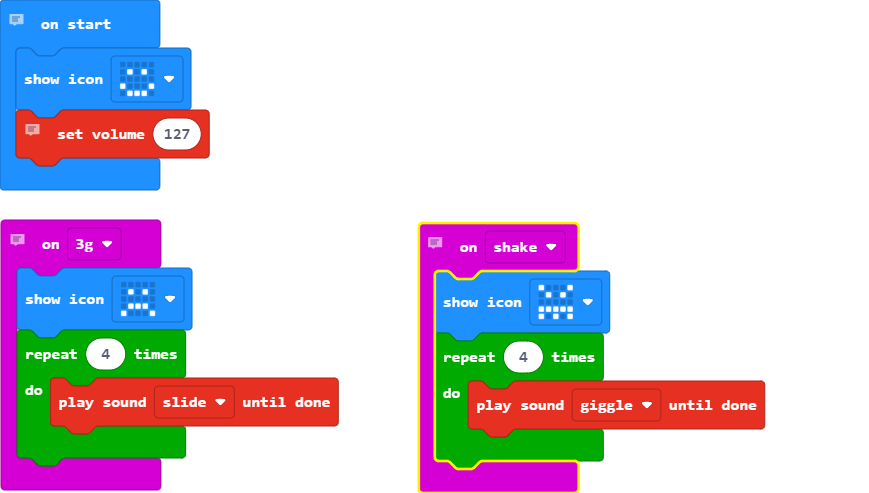
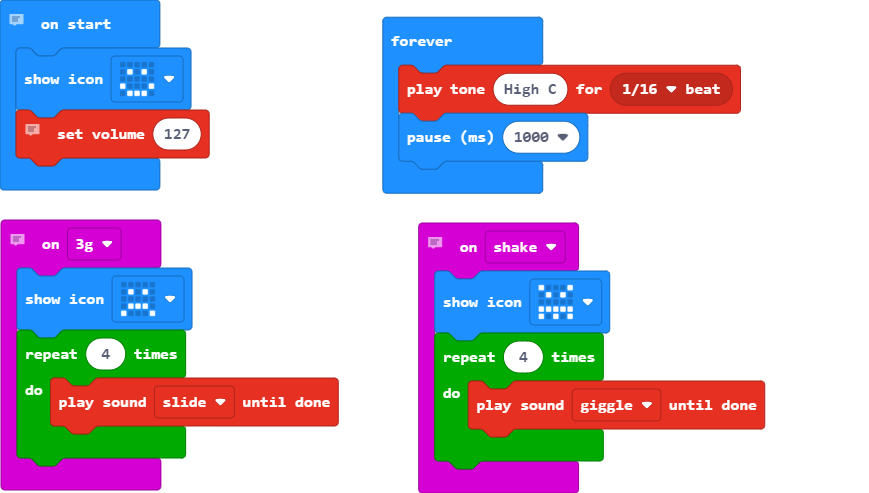
Update main.blocks, main.ts

Changed region(s): [[0.435, 0.0304, 0.87, 0.3955], [0.4661, 0.426, 0.6835, 1.0]]

diff --git a/main.ts b/main.ts
@@ -16,3 +16,7 @@ input.onGesture(Gesture.ThreeG, function () {
 basic.showIcon(IconNames.Happy)
 // Setting maximum volume as we want the sound to be loud
 music.setVolume(127)
+basic.forever(function () {
+    music.playTone(523, music.beat(BeatFraction.Sixteenth))
+    basic.pause(1000)
+})
